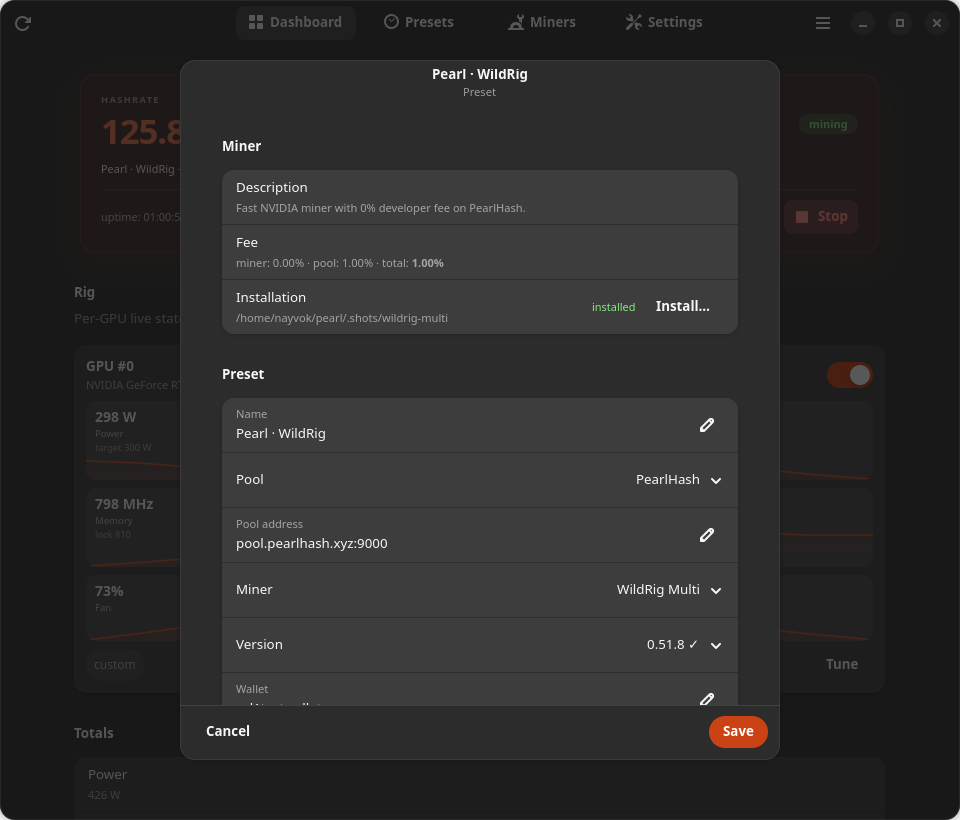
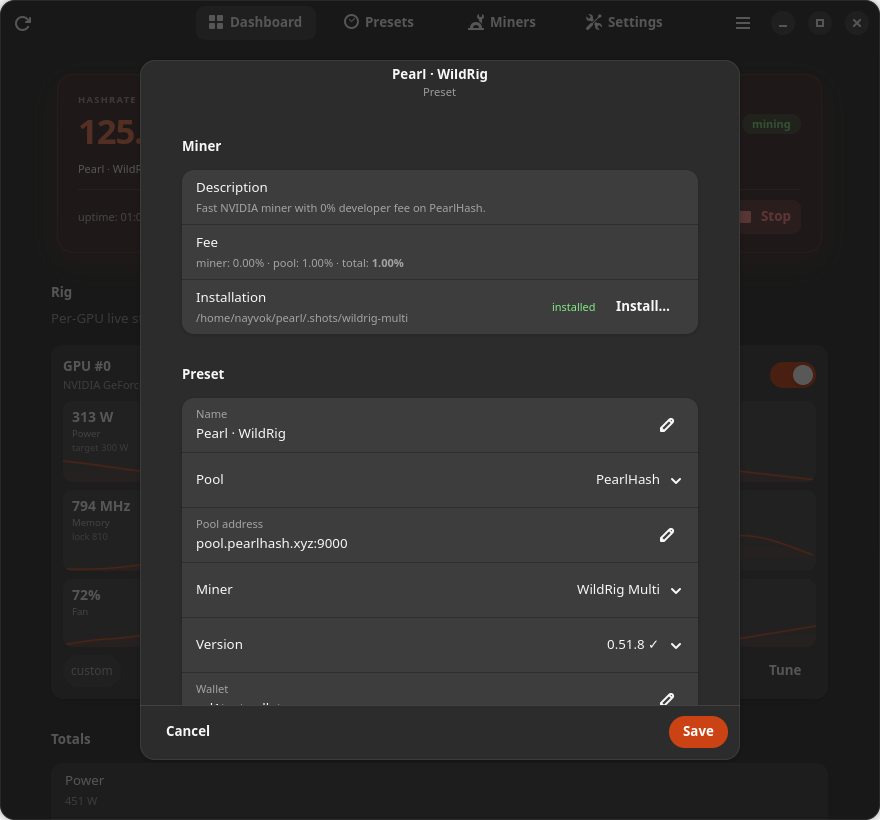
feat(ui): narrow the default window and ground card and dialog edges
The window opens at 880x760: the one-line view switcher still fits in Russian
down to about 850 px, so the app is narrower without falling back to stacked
labels or the bottom bar.

Sparklines now sit on the bubble floor: the wash is over-drawn to the last
pixel and the plot keeps only a 2 px bottom margin, so a low line hugs the
edge instead of floating above it (the bigger margin read as a detached
graph, while no margin at all clipped the line at the rounded corner).

The miner install dialog no longer overflows a narrow window: Import binary
became a row next to the installation state, the footer keeps Cancel, the
status line and the primary action, and long status messages ellipsize with
the full text in a tooltip. The AT-SPI smoke test follows the row.

diff --git a/crates/cli/src/gui.rs b/crates/cli/src/gui.rs
@@ -515,9 +515,11 @@ fn build_ui(app: &adw::Application) {
         .application(app)
         .title("Trommel")
         // The header carries navigation only (refresh, switcher, menu), so the
-        // one-line view switcher fits from about 880 px in Russian, the wider
-        // locale. 960 keeps a margin for longer translated page names.
-        .default_width(960)
+        // one-line view switcher fits from about 850 px in Russian, the wider
+        // locale. 880 keeps a small margin without making the window feel wide;
+        // below that the switcher stacks its labels under the icons (still in
+        // the header) and only at ~740 it moves to the bottom bar.
+        .default_width(880)
         .default_height(760)
         .build();
     window.set_size_request(400, 420);
@@ -3801,6 +3803,22 @@ fn miner_install_dialog(
     version_group.add(&version_combo);
     version_group.add(&version_entry);
     version_group.add(&state_row);
+    // Importing a local binary is the second source for the same install. As a
+    // row next to the installation state it stays readable at any window width;
+    // as a third footer button it pushed the primary action past the dialog
+    // edge on narrow windows.
+    let import = adw::ActionRow::builder()
+        .title(tr("Import binary", "Импортировать бинарник"))
+        .subtitle(tr(
+            "Install a binary you already have on disk",
+            "Установить бинарник, который уже есть на диске",
+        ))
+        .activatable(true)
+        .build();
+    let import_icon = gtk::Image::from_icon_name("document-open-symbolic");
+    import_icon.add_css_class("dim-label");
+    import.add_suffix(&import_icon);
+    version_group.add(&import);
     // The upstream link belongs to the version it documents, not to the window
     // chrome: an activatable row beats a stray icon in the header.
     if !def.source_url.is_empty() {
@@ -3876,17 +3894,15 @@ fn miner_install_dialog(
     let status = label("", &["caption", "dim-label"]);
     status.set_hexpand(true);
     status.set_valign(gtk::Align::Center);
-    let import = gtk::Button::builder()
-        .label(tr("Import binary…", "Импортировать бинарник…"))
-        .css_classes(["flat", "pill"])
-        .build();
+    // Long download/import messages must not widen the footer: ellipsize them
+    // and keep the full text in the tooltip (set_status_text does that).
+    status.set_ellipsize(gtk::pango::EllipsizeMode::End);
     let download = gtk::Button::builder()
         .label(tr("Download and install", "Скачать и установить"))
         .css_classes(["suggested-action", "pill"])
         .build();
     footer.append(&cancel);
     footer.append(&status);
-    footer.append(&import);
     footer.append(&download);
     let content = gtk::Box::new(gtk::Orientation::Vertical, 0);
     page.set_vexpand(true);
@@ -4004,7 +4020,7 @@ fn miner_install_dialog(
         let version_entry = version_entry.clone();
         let finish_install = finish_install.clone();
         let status = status.clone();
-        import.connect_clicked(move |button| {
+        import.connect_activated(move |row| {
             let dialog = gtk::FileChooserNative::builder()
                 .title(tr("Select miner binary", "Выберите бинарник майнера"))
                 .action(gtk::FileChooserAction::Open)
@@ -4014,7 +4030,7 @@ fn miner_install_dialog(
             let version_entry = version_entry.clone();
             let finish_install = finish_install.clone();
             let status = status.clone();
-            let button = button.clone();
+            let row = row.clone();
             dialog.connect_response(move |dialog, response| {
                 if response == gtk::ResponseType::Accept {
                     if let Some(path) = dialog.file().and_then(|file| file.path()) {
@@ -4022,8 +4038,8 @@ fn miner_install_dialog(
                         if version.is_empty() {
                             version = tr("custom", "своя").to_string();
                         }
-                        button.set_sensitive(false);
-                        button.set_label(&tr("Importing…", "Импортирую…"));
+                        row.set_sensitive(false);
+                        row.set_subtitle(&tr("Importing…", "Импортирую…"));
                         set_status_text(
                             &status,
                             &tr(
@@ -4046,7 +4062,7 @@ fn miner_install_dialog(
                             .map_err(|err| err.to_string());
                             let _ = tx.send(result);
                         });
-                        let button = button.clone();
+                        let row = row.clone();
                         let status = status.clone();
                         let finish_install = finish_install.clone();
                         glib::timeout_add_local(Duration::from_millis(100), move || {
@@ -4057,10 +4073,10 @@ fn miner_install_dialog(
                                 }
                                 Ok(Err(error)) => {
                                     set_status_text(&status, &error, "error");
-                                    button.set_sensitive(true);
-                                    button.set_label(&tr(
-                                        "Import binary…",
-                                        "Импортировать бинарник…",
+                                    row.set_sensitive(true);
+                                    row.set_subtitle(&tr(
+                                        "Install a binary you already have on disk",
+                                        "Установить бинарник, который уже есть на диске",
                                     ));
                                     glib::ControlFlow::Break
                                 }
@@ -4076,10 +4092,10 @@ fn miner_install_dialog(
                                         ),
                                         "error",
                                     );
-                                    button.set_sensitive(true);
-                                    button.set_label(&tr(
-                                        "Import binary…",
-                                        "Импортировать бинарник…",
+                                    row.set_sensitive(true);
+                                    row.set_subtitle(&tr(
+                                        "Install a binary you already have on disk",
+                                        "Установить бинарник, который уже есть на диске",
                                     ));
                                     glib::ControlFlow::Break
                                 }
@@ -4192,6 +4208,9 @@ fn miner_install_dialog(
 /// Set text plus one semantic colour class on a status label.
 fn set_status_text(widget: &gtk::Label, text: &str, class: &str) {
     widget.set_text(text);
+    // Footer status lines ellipsize on narrow dialogs; the tooltip still carries
+    // the whole message.
+    widget.set_tooltip_text((!text.is_empty()).then_some(text));
     if class.is_empty() {
         widget.set_css_classes(&["caption", "dim-label"]);
     } else {
@@ -4508,7 +4527,7 @@ const METRIC_COUNT: usize = 6;
 /// (a 1 s GUI poll over 5 minutes is 300 samples).
 const HISTORY_SECS: u64 = 300;
 const HISTORY_MAX: usize = 360;
-const SPARK_HEIGHT: i32 = 22;
+const SPARK_HEIGHT: i32 = 24;
 
 type GpuSample = (u64, [Option<f64>; METRIC_COUNT]);
 
@@ -4617,9 +4636,14 @@ fn draw_sparkline(
     }
     let w = width as f64;
     let h = height as f64;
+    // The wash reaches the tile's rounded floor; the plot keeps only a 2 px
+    // margin, because a line that floats far above the bottom edge reads as
+    // detached from the tile. At 2 px the corner rounding trims at most ~1 px
+    // off the last sample.
+    let radius = 10.0_f64.min(h / 2.0).min(w / 2.0);
     let top = 3.0;
-    let bottom = 1.0;
-    let usable = (h - top - bottom).max(1.0);
+    let bottom = 2.0;
+    let usable = (h - bottom - top).max(1.0);
     let x_of = |ts: u64| (ts.saturating_sub(first_ts) as f64) * w / (last_ts - first_ts) as f64;
     let y_of = |value: f64| top + (1.0 - (value - lo) / (hi - lo)) * usable;
     let color = spark_color(area, color_key);
@@ -4639,7 +4663,6 @@ fn draw_sparkline(
     let _ = ctx.save();
     // The chart is the floor of the tile: square at the top, rounded at the
     // bottom so the wash follows the card's 10 px corner radius.
-    let radius = 10.0_f64.min(h / 2.0).min(w / 2.0);
     ctx.move_to(0.0, 0.0);
     ctx.line_to(w, 0.0);
     ctx.line_to(w, h - radius);
@@ -4665,10 +4688,12 @@ fn draw_sparkline(
     let gradient = gtk::cairo::LinearGradient::new(0.0, top, 0.0, h);
     gradient.add_color_stop_rgba(0.0, red, green, blue, 0.0);
     gradient.add_color_stop_rgba(1.0, red, green, blue, 0.12);
-    ctx.move_to(start_x, h);
+    // Overdraw by one pixel into the clip so antialiasing cannot leave a
+    // hairline of tile background at the bottom or right edge.
+    ctx.move_to(start_x, h + 1.0);
     ctx.line_to(start_x, start_y);
     spark_curve(ctx, &points);
-    ctx.line_to(end_x, h);
+    ctx.line_to(end_x + 1.0, h + 1.0);
     ctx.close_path();
     let _ = ctx.set_source(&gradient);
     let _ = ctx.fill();

diff --git a/scripts/ui_smoke.py b/scripts/ui_smoke.py
@@ -539,8 +539,10 @@ def phase_install(ui: UI) -> None:
         return
     # Let the modal window finish mapping before clicking its footer button.
     time.sleep(1.0)
-    for name in ("Cancel", "Download and install", "Import binary…"):
+    for name in ("Cancel", "Download and install"):
         ui.check(ui.find(frame, "button", name) is not None, f"install button {name}")
+    # Import is a row in the Download group; it is not a push button anymore.
+    ui.check(ui.find(frame, None, "Import binary") is not None, "install import row")
     for name in ("Version name", "URL", "SHA-256"):
         ui.check(ui.find(frame, "text", name) is not None, f"install field {name}")
     ui.click_button("Cancel", frame, "install Cancel")

diff --git a/docs/design.ru.md b/docs/design.ru.md
@@ -57,7 +57,7 @@ libadwaita пропустить свой stylesheet и ломает отступ
 
 | Параметр | Значение |
 | --- | --- |
-| Окно по умолчанию | 960 × 760 |
+| Окно по умолчанию | 880 × 760 |
 | Минимальное окно | 400 × 420 |
 | Колонка дашборда | clamp 900 px (карточки расширяются шире текстовой колонки) |
 | Отступы дашборда | 18 px сверху, 24 px снизу, по 12 px с боков |
@@ -143,8 +143,9 @@ libadwaita пропустить свой stylesheet и ломает отступ
    показывается `AdwViewSwitcherBar` — переключатель не обрезается и не
    дублируется. В шапке только навигация и хром окна (обновить, переключатель,
    меню): главное действие «Запустить/Остановить» живёт на дашборде, поэтому
-   однострочный переключатель держится примерно до 880 px, а окно по умолчанию
-   960×760 оставляет запас под более длинные переводы.
+   однострочный переключатель держится примерно до 850 px — окно по умолчанию
+   880×760 даёт одну строку в обоих языках, а при меньшей ширине подписи
+   складываются под иконки, оставаясь в шапке.
 3. **Мастера — единственные экраны с «Назад/Далее».** Они модальные и на каждом
    шаге держат «Отмена/Назад/Далее» в нижней панели.
 4. **Страница — это место, куда возвращаются, а не шаг сценария.** Углубление
@@ -193,8 +194,10 @@ libadwaita пропустить свой stylesheet и ломает отступ
   живым значением), чип «своя/профиль» и кнопка **Настроить**. Каждый «пузырь»
   заканчивается **спарклайном** по нижней кромке: последние пять минут метрики
   тонкой акцентной линией поверх мягкой заливки, со скруглением углов пузыря.
-  Линия повторяет цвет значения, поэтому тёплый или горячий пузырь рисует
-  тёплую или красную линию. История живёт в GUI (стартует пустой и наполняется с
+  Заливка доходит до скруглённого низа, а у графика остаётся всего 2 px отступа,
+  поэтому он «стоит» на нижней кромке пузыря, а не висит над ней. Линия повторяет
+  цвет значения, поэтому тёплый или горячий пузырь рисует тёплую или красную
+  линию. История живёт в GUI (стартует пустой и наполняется с
   частотой опроса), а не в статусе демона. Риг из одной карты получает одну
   карточку на всю ширину с сеткой 3×2; при 2+ картах карточки складываются в
   wrap-контейнер и делят строку поровну (минимум 240 px). Частоты ядра и памяти
@@ -256,7 +259,9 @@ libadwaita пропустить свой stylesheet и ломает отступ
 - редактируемое имя версии — можно поставить сборку новее каталога;
 - HTTPS-URL, опциональный SHA-256, тип архива (`tar.gz`, `zip`, raw) и имя
   бинарника;
-- **Импорт** локального исполняемого файла;
+- строка **Импортировать бинарник** для локального исполняемого файла (в
+  нижней панели остаются только **Отмена** и главное действие, поэтому панель
+  помещается и в окно 400 px);
 - строка **Страница релиза** в группе версии, пояснение про HTTPS/SHA-256 и
   сообщение об ошибке или успехе; отдельного бейджа «проверено» в диалоге нет;
 - ошибки остаются в диалоге; успех даёт тост и обновляет вызывающий экран.

diff --git a/docs/design.md b/docs/design.md
@@ -55,7 +55,7 @@ overrides it for screenshots and tests.
 
 | Constant | Value |
 | --- | --- |
-| Default window | 960 × 760 |
+| Default window | 880 × 760 |
 | Minimum window | 400 × 420 |
 | Dashboard content clamp | 900 px (cards widen beyond the reading column) |
 | Dashboard margins | 18 px top, 24 px bottom, 12 px sides |
@@ -143,7 +143,8 @@ Every coloured value has a word next to it (“installed”, “not installed”
    clipped and never duplicated. The header bar carries navigation and window
    chrome only (refresh, switcher, menu): the primary Start/Stop action lives on
    the dashboard, which keeps the one-line switcher usable down to roughly
-   880 px, and the 960×760 default leaves a margin for longer translations.
+   850 px, so the 880×760 default is one line in both locales; a narrower
+   window stacks the labels under the icons and keeps them in the header.
 3. **Wizards are the only Back/Next surfaces.** They are modal dialogs and keep
    Cancel/Back/Next in the footer on every step.
 4. **A page is a place you return to, not a step in a flow.** Drilling down
@@ -191,7 +192,9 @@ Every coloured value has a word next to it (“installed”, “not installed”
   load; the configured target/lock is a small hint and turns hot when the live
   value differs), a custom/default chip and a **Tune** button. Each bubble ends
   with a **sparkline** on the bubble floor: the metric's last five minutes as a
-  thin accent line over a soft accent wash, rounded with the bubble. The line
+  thin accent line over a soft accent wash, rounded with the bubble. The wash
+  reaches the rounded floor and the plot keeps only a 2 px margin, so the graph
+  is grounded in the bubble instead of floating above its bottom edge. The line
   follows the value colour, so a warm or hot bubble also draws warm or hot.
   History lives in the GUI (it starts empty and fills at the poll rate), not in
   the daemon status. A one-GPU rig uses a single full-width card with a 3×2
@@ -254,7 +257,8 @@ wizard:
   catalogue knows it;
 - HTTPS URL, optional SHA-256, archive kind (`tar.gz`, `zip`, raw) and binary
   name;
-- **Import** of a local executable;
+- **Import binary** row for a local executable (the footer keeps only
+  **Cancel** and the primary action, so it also fits a 400 px window);
 - a **Release page** row in the version group, the HTTPS-only/SHA-256 note and
   the error or success message; there is no separate “verified” badge in the
   dialog;

diff --git a/CHANGELOG.md b/CHANGELOG.md
@@ -21,6 +21,17 @@ Changelog; versions use SemVer.
 
 ### Changed
 
+- **Default window narrowed to 880 × 760.** The one-line view switcher holds in
+  Russian down to about 850 px, so the window opens a hundred pixels narrower
+  without falling back to the stacked labels or the bottom bar.
+- **Miner install: import moved into the version group.** “Import binary” is a
+  row next to the installation state instead of a third footer button, so a
+  narrow dialog keeps **Cancel**, the status line and the primary action inside
+  its edge; long status messages ellipsize and keep the full text in a tooltip.
+- **Sparklines reach the bubble edges.** The wash is over-drawn to the last
+  pixel and the plot keeps only a 2 px bottom margin, so the graph sits on the
+  bubble floor instead of floating above it or being clipped before the right
+  corner.
 - **Navigation moved into the header bar.** The four sections are an
   `AdwViewSwitcherTitle`, so the switcher sits next to the window actions
   instead of in a separate bar at the bottom. When the window is too narrow for
